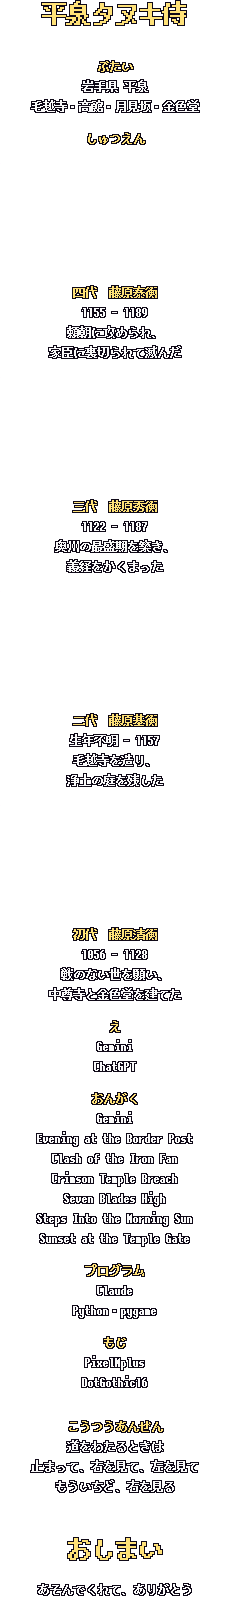
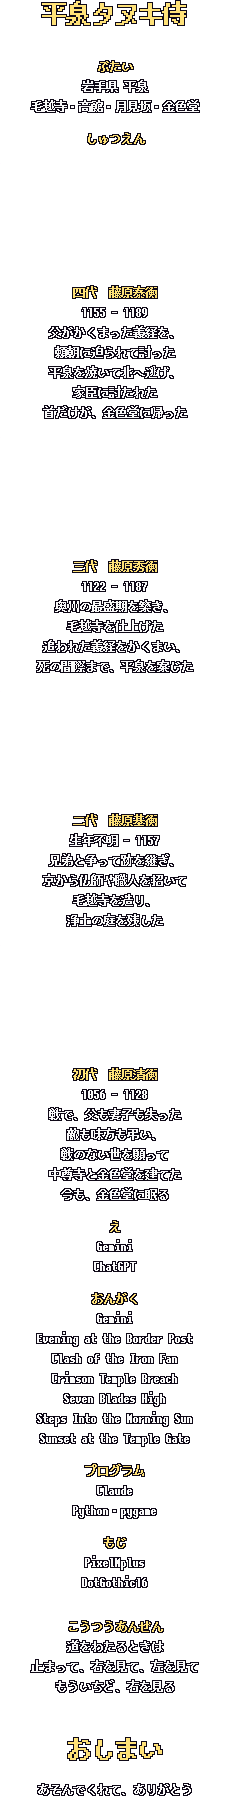
藤原四代の説明を広げる（エンドロールの各人を4〜5行に。EXTRA に JINBUTSU を足し、1人1枚の説明）。泰衡の二つ名を「首無武者」に

diff --git a/main.py b/main.py
@@ -80,10 +80,10 @@ class Game:
         self.start_t = 0         # 決定してから、始まるまでの残りフレーム
         self.menu_on = False     # スタート画面で、メニューを開いている
         self.menu_i = 0          # 選んでいる項目
-        self.menu_page = "main"  # メニューの画面（main = STORY・OPTION・EXTRA・HOW TO PLAY / option = 難しさ・音量 / extra = 名所・曲 / meisho = 名所 / disco = 曲の一覧）
+        self.menu_page = "main"  # メニューの画面（main = STORY・OPTION・EXTRA・HOW TO PLAY / option = 難しさ・音量 / extra = 名所・人物・曲 / meisho = 名所 / jinbutsu = 人物 / disco = 曲の一覧）
         self.disco_song = None   # ディスコグラフィで、いま鳴らしている曲のファイル名
         self.howto = False       # 操作説明を出している
-        self.meisho = None       # 名所の説明を出している面の番号（0〜。出していなければ None）
+        self.meisho = None       # 出している、名所・人物の説明の絵（出していなければ None）
         self._fade_cache = {}    # 崖の縁の、中景の入れ替えに使う、濃さの帯（幅ごとに作る）
         self._roll_fade = None   # エンドロールの、左の枠の右の端を暗くぼかす帯
         self.story = False       # いま、始まりの語りを流している
@@ -497,7 +497,7 @@ class Game:
         ud = ("down" in held) - ("up" in held)
         step_lr, step_ud = (lr if lr != self._lr else 0), (ud if ud != self._ud else 0)   # 押した瞬間だけ
         self._lr, self._ud = lr, ud
-        if self.howto or self.meisho is not None:      # 操作説明・名所の説明: 決定で、メニューに戻る
+        if self.howto or self.meisho is not None:      # 操作説明・名所や人物の説明: 決定で、メニューに戻る
             if decide:
                 self.howto, self.meisho = False, None
                 self.sfx.append(C.SFX["decide"])
@@ -534,11 +534,12 @@ class Game:
             if decide and row == "option":
                 self.menu_page, self.menu_i = "option", 0
                 self.sfx.append(C.SFX["decide"])
-            elif decide and row in ("extra", "disco", "meisho"):
+            elif decide and row in ("extra", "disco", "meisho", "jinbutsu"):
                 self.menu_page, self.menu_i = row, 0
                 self.sfx.append(C.SFX["decide"])
-            elif decide and self.menu_page == "meisho" and row != "back" and int(row[1:]) < len(self.a.meisho):    # 名所を選んで決定: 説明を出す
-                self.meisho = int(row[1:])
+            elif (decide and self.menu_page in ("meisho", "jinbutsu") and row != "back"
+                  and int(row[1:]) < len(self.a.meisho if self.menu_page == "meisho" else self.a.jinbutsu)):    # 名所・人物を選んで決定: 説明を出す
+                self.meisho = (self.a.meisho if self.menu_page == "meisho" else self.a.jinbutsu)[int(row[1:])]
                 self.sfx.append(C.SFX["decide"])
                 return
             elif decide and self.menu_page == "disco" and row != "back":     # 曲を選んで決定: その曲を鳴らす（もう一度で、止める）
@@ -546,7 +547,7 @@ class Game:
                 self.disco_song = None if self.disco_song == song else song
             elif decide and row == "back":
                 # 戻る先: 名所・曲の一覧は EXTRA へ、それ以外は最初のメニューへ（来た項目を選んだまま）
-                came, page = self.menu_page, "extra" if self.menu_page in ("disco", "meisho") else "main"
+                came, page = self.menu_page, "extra" if self.menu_page in ("disco", "meisho", "jinbutsu") else "main"
                 self.menu_page, self.menu_i, self.disco_song = page, C.MENU["pages"][page].index(came), None
                 self.sfx.append(C.SFX["decide"])
             elif decide and row == "howto" and self.a.howto:
@@ -1873,7 +1874,7 @@ class Game:
             img = self.a.howto
             screen.blit(img, ((C.BASE_W - img.get_width()) // 2, (C.BASE_H - img.get_height()) // 2))
         elif self.meisho is not None:
-            img = self.a.meisho[self.meisho]
+            img = self.meisho
             screen.blit(img, ((C.BASE_W - img.get_width()) // 2, (C.BASE_H - img.get_height()) // 2))
         elif self.menu_on and font:
             self._draw_menu(screen, font)
@@ -1900,7 +1901,7 @@ class Game:
         rows = M["pages"][self.menu_page]
         gap = M["row"] if self.menu_page == "main" else M["row_option"]
         top = M["y"] - max(0, len(rows) - 4) * gap       # 行が多いページは、上へ伸ばす（画面の下に出ないように）
-        if self.menu_page in ("extra", "disco", "meisho"):
+        if self.menu_page in ("extra", "disco", "meisho", "jinbutsu"):
             head = "- %s -" % M["label"][self.menu_page]
             text(head, M["cx"] - font.size(head)[0] // 2, top - M["head"], (214, 168, 72))
         for n, row in enumerate(rows):

diff --git a/config.py b/config.py
@@ -202,7 +202,7 @@ BOSS = dict(w=36, h=76, hp=24, touch=1, speed=0.5, near=70, gravity=0.3,
             rage_walk_frames=50, rage_recover_frames=45,
             high_bottom=30, high_h=32, corner=70)   # 高い光波の下端と高さ（地面から。高さは、絵と同じ） / 壁ぎわとみなす距離
 # ボスの名前（藤原四代。1面は、四代の泰衡。設定は assets/ストーリー設定.md）。出てきたときに、
-# まず二つ名（「呪落武者」）が出て、少し遅れて、名前が出る。どちらも、上に小さく、ふりがなを付ける。
+# まず二つ名（「首無武者」）が出て、少し遅れて、名前が出る。どちらも、上に小さく、ふりがなを付ける。
 # 文字の絵は tools/make_boss_name.py で作る（名前を変えるときは、絵を作り直す）
 BOSS_TITLE = "enemies/boss_ochimusha_title.png"   # 二つ名（上に、ふりがな）
 BOSS_NAME = "enemies/boss_ochimusha_name.png"     # 名前（上に、ふりがな）
@@ -445,7 +445,7 @@ LEVEL = "normal"        # 最初に選ばれている難しさ
 LEVEL_LABEL = (150, 252)    # （前の、難しさの表示の場所。いまは、メニューの中に出す）
 # スタート画面のメニュー: 決定のキーで開く。上下で項目を選び、決定で進む。
 #   main:   STORY（始める）/ OPTION（設定の画面へ）/ EXTRA（本編と関係のない、おまけ）/ HOW TO PLAY
-#   extra:  MEISHO（名所の説明。assets/images/meisho_*.png。tools/make_meisho.py で作る）/ DISCOGRAPHY（曲）/ BACK（操作説明。assets/images/howto.png。tools/make_howto.py で作る）
+#   extra:  MEISHO（名所の説明。assets/images/meisho_*.png）/ JINBUTSU（藤原四代の説明。jinbutsu_*.png。どちらも tools/make_meisho.py で作る）/ DISCOGRAPHY（曲）/ BACK（操作説明。assets/images/howto.png。tools/make_howto.py で作る）
 #   option: LEVEL（難しさ。左右で変える）/ MUSIC・SOUND（音量。左右で変える）/ BACK（戻る）
 #   cx = 行の中心（題名と同じ。どの行も、中央ぞろえ。右の大きなタヌキ侍は、x=265 あたりから。行の幅は、200 まで）
 #   y = 1行目の上端 / row・row_option = 行の間隔 / head = 見出しを、1行目より、どれだけ上に出すか / gap = 項目名と値の間 / steps = 音量の段の数
@@ -455,10 +455,11 @@ DISCO = (("bgm_story.ogg", "Evening at the Border Post"), ("bgm_map.ogg", "Steps
          ("bgm_ending.ogg", "Sunset at the Temple Gate"))
 MENU = dict(cx=150, y=196, row=18, row_option=15, head=18, gap=10, steps=5,
             pages=dict(main=("story", "option", "extra", "howto"), option=("level", "music", "sound", "back"),
-                       extra=("meisho", "disco", "back"),
+                       extra=("meisho", "jinbutsu", "disco", "back"),
                        meisho=("m0", "m1", "m2", "m3", "back"),
+                       jinbutsu=("p0", "p1", "p2", "p3", "back"),
                        disco=tuple("t%d" % i for i in range(len(DISCO))) + ("back",)),
-            label=dict(story="STORY", option="OPTION", extra="EXTRA", meisho="MEISHO", m0="MOTSUJI", m1="TAKADACHI", m2="TSUKIMIZAKA", m3="KONJIKIDO", disco="DISCOGRAPHY", howto="HOW TO PLAY", level="LEVEL", music="MUSIC", sound="SOUND", back="BACK",
+            label=dict(story="STORY", option="OPTION", extra="EXTRA", meisho="MEISHO", m0="MOTSUJI", m1="TAKADACHI", m2="TSUKIMIZAKA", m3="KONJIKIDO", jinbutsu="JINBUTSU", p0="YASUHIRA", p1="HIDEHIRA", p2="MOTOHIRA", p3="KIYOHIRA", disco="DISCOGRAPHY", howto="HOW TO PLAY", level="LEVEL", music="MUSIC", sound="SOUND", back="BACK",
                        **{"t%d" % i: name for i, (_, name) in enumerate(DISCO)}))
 # 隠し部屋（stage.py の caves）: hits＝崩れるまでに斬る回数 / cool＝1回の振りで、何度も数えないための間 / wall＝入口の壁の厚み（刀が当たる所）
 #   crack＝ひびの色（細く。斬るたびに濃くなる）/ shine＝ひびの下に1ドットずらして引く、明るい縁（彫ったように見せる）/ lines＝ひびの線（x は壁の左端から、y は高さに対する割合）/ room・edge＝壊したあとの部屋の色と縁

diff --git a/tools/make_meisho.py b/tools/make_meisho.py
@@ -39,6 +39,39 @@ PLACES = (
 )
 
 
+# 人物（遊ぶ順。泰衡→秀衡→基衡→清衡）: (名前, 読み, 説明の行, ゲームでは)。出力は jinbutsu_1.png 〜 jinbutsu_4.png
+PEOPLE = (
+    ("藤原泰衡", "ふじわらのやすひら", (
+        "四代。1155-1189。秀衡の子。",
+        "頼朝に迫られ、父がかくまった義経を高館に攻めた。",
+        "それでも頼朝の大軍に攻められ、平泉を焼いて北へ逃げた。",
+        "逃げる途中、家臣に討たれ、首は頼朝のもとへ送られた。",
+        "その首は、のちに金色堂に納められた。",
+    ), "一の面のボス。首を失った「首無武者」。"),
+    ("藤原秀衡", "ふじわらのひでひら", (
+        "三代。1122-1187。基衡の子。",
+        "鎮守府将軍となり、奥州藤原氏の最盛期を築いた。",
+        "毛越寺を仕上げ、宇治の平等院をまねた無量光院を建てた。",
+        "頼朝に追われた源義経を、平泉にかくまった。",
+        "死の間際、義経を立てて国を守れと言い残した。",
+    ), "二の面のボス。薙刀の光波と、踏み込み突き。"),
+    ("藤原基衡", "ふじわらのもとひら", (
+        "二代。生年不明-1157。清衡の子。",
+        "父の死後、兄弟と争って、跡を継いだ。",
+        "京から仏師や職人を招き、毛越寺を造りはじめた。",
+        "極楽浄土を写した庭は、今も毛越寺に残る。",
+        "妻は、毛越寺のとなりに観自在王院を建てた。",
+    ), "三の面のボス。扇で風を起こす。"),
+    ("藤原清衡", "ふじわらのきよひら", (
+        "初代。1056-1128。",
+        "前九年・後三年の戦で、父も妻子も失った。",
+        "戦の世を終わらせ、平泉に中尊寺を建てた。",
+        "敵も味方も、戦で死んだすべての命を弔うと願った。",
+        "1124年に金色堂を建て、今もそこに眠る。",
+    ), "最後のボス。金色の光をまとい、浮かぶ。"),
+)
+
+
 def big(font, s, scale):
     """ドットのフォントを、整数倍に大きくした文字の型（にじまない）"""
     mask = Image.new("L", (12 * len(s), 14), 0)
@@ -64,10 +97,11 @@ def make(font, place, out):
     y = 18 + mask.height + 10
     d.line((LEFT, y, W - LEFT, y), fill=EDGE[:3] + (150,))
     y += 14
+    step = 22 if len(lines) <= 3 else 19      # 行が多い（人物）ときは、少し詰める
     for s in lines:
         assert font.getlength("・" + s) <= W - 2 * LEFT, s      # 1行に収まる
         d.text((LEFT, y), "・" + s, font=font, fill=WHITE)
-        y += 22
+        y += step
     y += 10
     d.text((LEFT, y), "ゲームでは", font=font, fill=GOLD)
     d.text((LEFT + 72, y), game, font=font, fill=WHITE)
@@ -81,6 +115,8 @@ def main(font_path):
     font = ImageFont.truetype(font_path, 12)
     for i, place in enumerate(PLACES, 1):
         make(font, place, os.path.join(ROOT, "assets", "images", "meisho_%d.png" % i))
+    for i, person in enumerate(PEOPLE, 1):
+        make(font, person, os.path.join(ROOT, "assets", "images", "jinbutsu_%d.png" % i))
 
 
 if __name__ == "__main__":

diff --git a/tools/make_credits.py b/tools/make_credits.py
@@ -27,26 +27,36 @@ LINES = (
     ("絵", ""),
     ("見出し", "四代  藤原泰衡"),
     ("", "1155 - 1189"),
-    ("", "頼朝に攻められ、"),
-    ("", "家臣に裏切られて滅んだ"),
+    ("", "父がかくまった義経を、"),
+    ("", "頼朝に迫られて討った"),
+    ("", "平泉を焼いて北へ逃げ、"),
+    ("", "家臣に討たれた"),
+    ("", "首だけが、金色堂に帰った"),
     None,
     ("絵", ""),
     ("見出し", "三代  藤原秀衡"),
     ("", "1122 - 1187"),
     ("", "奥州の最盛期を築き、"),
-    ("", "義経をかくまった"),
+    ("", "毛越寺を仕上げた"),
+    ("", "追われた義経をかくまい、"),
+    ("", "死の間際まで、平泉を案じた"),
     None,
     ("絵", ""),
     ("見出し", "二代  藤原基衡"),
     ("", "生年不明 - 1157"),
+    ("", "兄弟と争って跡を継ぎ、"),
+    ("", "京から仏師や職人を招いて"),
     ("", "毛越寺を造り、"),
     ("", "浄土の庭を残した"),
     None,
     ("絵", ""),
     ("見出し", "初代  藤原清衡"),
     ("", "1056 - 1128"),
-    ("", "戦のない世を願い、"),
+    ("", "戦で、父も妻子も失った"),
+    ("", "敵も味方も弔い、"),
+    ("", "戦のない世を願って"),
     ("", "中尊寺と金色堂を建てた"),
+    ("", "今も、金色堂に眠る"),
     None,
     ("見出し", "え"),
     ("", "Gemini"),

diff --git a/sprites.py b/sprites.py
@@ -178,6 +178,8 @@ class Assets:
         self.howto = _load("howto.png") if os.path.exists(os.path.join(IMG, "howto.png")) else None     # 操作説明（メニューから開く）
         # 名所の説明（メニューの MEISHO から開く。面の順。tools/make_meisho.py で作る）
         self.meisho = [_load(f"meisho_{n}.png") for n in range(1, 5) if os.path.exists(os.path.join(IMG, f"meisho_{n}.png"))]
+        # 人物の説明（メニューの JINBUTSU から開く。遊ぶ順: 泰衡・秀衡・基衡・清衡。同じ tools/make_meisho.py で作る）
+        self.jinbutsu = [_load(f"jinbutsu_{n}.png") for n in range(1, 5) if os.path.exists(os.path.join(IMG, f"jinbutsu_{n}.png"))]
         self.title_logo = _load("title_logo.png")       # 題名「平泉 タヌキ侍」（昔のゲームのロゴ風）
         self.title_prompt = _load("title_prompt.png")   # 「PRESS START」
         # スタート画面の絵（無ければ、1面の景色で代わりにする）

diff --git a/tools/make_boss_name.py b/tools/make_boss_name.py
@@ -1,6 +1,6 @@
 """ボスが出てくる場面の、二つ名と名前の絵を書き出す（ゲームにフォントを入れずに出すため）。
 
-使い方: python tools/make_boss_name.py フォント.ttf "呪落武者" "のろいおちむしゃ" "泰衡" "やすひら" 出力の頭
+使い方: python tools/make_boss_name.py フォント.ttf "首無武者" "くびなしむしゃ" "泰衡" "やすひら" 出力の頭
 出力: 出力の頭_title.png（二つ名。朱色）、出力の頭_name.png（名前）。どちらも、上に小さく、ふりがなを付ける
   - フォントは、ドット風の DotGothic16（大きさ16）。二つ名は2倍、名前は3倍、ふりがなは1倍
   - アンチエイリアスなし。まわりに暗い縁取りを付ける

diff --git a/tools/make_boss1.py b/tools/make_boss1.py
@@ -1,4 +1,4 @@
-"""1面のボス（泰衡「呪落武者」）のシート2枚（白背景）から、使う姿を選んで、ゲーム用のコマにする。
+"""1面のボス（泰衡「首無武者」）のシート2枚（白背景）から、使う姿を選んで、ゲーム用のコマにする。
 
 使い方: python tools/make_boss1.py シート1.jpg シート2.jpg 出力フォルダ [--height 80] [--chunk 1] [--colors 14] [--list]
   --list   見つけた姿の番号と位置だけ表示し、番号入りの確認画像（出力フォルダ/boss_list_1.png・_2.png）を書く

diff --git a/assets/ステージコンセプト.md b/assets/ステージコンセプト.md
@@ -23,7 +23,7 @@
 | 敵の量 | 少ない（13。飛ぶ敵が中心） | 中（26） | 多い（39） | 少なめ（27。ボスの間が主役） |
 | 新しく出るもの | 飛び石・池・反橋 | 崖・高低差（弓兵・立ち往生は、絵ができてから） | 落ち武者・狐火・烏（最初から出ている） | 光る足場・浮かぶボス |
 | 景色 | 夜明け前の朝霧（青・白緑） | 夏の昼（緑・青空・川） | 夕焼けから夜（紫・橙） | 堂の中（黒・金・朱） |
-| ボス | 泰衡「呪落武者」 | 基衡「怨庭公家」 | 秀衡「鬼角薙将」 | 清衡「金色坐仏」 |
+| ボス | 泰衡「首無武者」 | 基衡「怨庭公家」 | 秀衡「鬼角薙将」 | 清衡「金色坐仏」 |
 | 長さ | 5000 | 6000 | 7500 | 9000（いちばん長い） |
 | 絵の置き場 | stage2/ | stage3/ | （1面の絵） | stage4/ |
 
@@ -53,7 +53,7 @@
 - **地形**: 池（穴）×4、反橋（16ずつの階段）、庭の塔（高さ140）、礎石の足場。
 - **景色**: 夜明け前の朝霧。青、白緑。1面の夕焼けと、対にする。
 - **平泉らしさ**: 面の名前（第一面 毛越寺 浄土の庭）／石碑「毛越寺」／礎石の足場／常行堂・中島・反橋の背景／池。
-- **ボス**: 四代・泰衡「呪落武者」（遊ぶ順で1人目）。細くて前かがみの落ち武者。歩いて斬る、光波（低・高）、跳びかかり。体力24。
+- **ボス**: 四代・泰衡「首無武者」（遊ぶ順で1人目）。細くて前かがみの落ち武者。歩いて斬る、光波（低・高）、跳びかかり。体力24。
   （基衡「怨庭公家」は、2面の高館のボス。顔のない、装束だけの亡霊（暗い空洞に、水色の目）。扇の風で押し戻す（ダメージなし）、扇を投げる（戻ってくる）、花びらの雨（体力が半分から。落ちる前に、地面に目印）。体力28。実装済み（絵は assets/concept/source/boss2_*.jpg → tools/make_boss2.py）。）
 - **曲**: 未定。静かで、少し神秘的な和風（朝霧の庭園）。
 - **やり残し**: ボス戦の遊んでの調整／ボスの名前の文字／語りの立ち絵／曲／遣水（小川）の場面／ボス戦の場所に池を置くか。

diff --git a/assets/必要な絵の一覧.md b/assets/必要な絵の一覧.md
@@ -157,7 +157,7 @@
 大きな形（兜・肩・刀・背中の矢）が、輪郭だけで分かるように描く。秀衡は、細かく描きすぎて、ほかの絵と合わなかった。
 
 - ファイル名: `boss1_sheet.jpg`
-- 姿: [ストーリー設定.md](ストーリー設定.md) の「ボスの見た目」。細くて前かがみ。折れた兜、背中に矢が刺さった落ち武者。二つ名は「呪落武者」
+- 姿: [ストーリー設定.md](ストーリー設定.md) の「ボスの見た目」。細くて前かがみ。折れた兜、背中に矢が刺さった落ち武者。二つ名は「首無武者」
 - 動き（行ごと）:
   - 立ち 3コマ（にらむ。肩で息をする）
   - 歩く 4コマ
@@ -174,7 +174,7 @@
 - 指示文（[敵コンセプト.md](敵コンセプト.md) の「共通」のあとに、続けて貼る）:
 
 ```
-【ボス】藤原泰衡(やすひら)。二つ名は「呪落武者(のろいおちむしゃ)」。逃げ続けて討たれた、四代目の亡霊。
+【ボス】藤原泰衡(やすひら)。二つ名は「首無武者(くびなしむしゃ)」。逃げ続けて討たれた、四代目の亡霊。
 
 【見た目】
 - 細くて、前かがみ。添付の落ち武者より、ずっと大きい(立った高さは、落ち武者の約2倍)。

diff --git a/assets/ストーリー設定.md b/assets/ストーリー設定.md
@@ -58,7 +58,7 @@
 
 | 遊ぶ順 | 場所 | ボス | 二つ名 | 出てきたときのひとこと |
 |---|---|---|---|---|
-| 1 | 毛越寺 | 四代・泰衡（やすひら） | 呪落武者（のろいおちむしゃ） | 「逃げても、逃げても、追ってくる」 |
+| 1 | 毛越寺 | 四代・泰衡（やすひら） | 首無武者（くびなしむしゃ） | 「逃げても、逃げても、追ってくる」 |
 | 2 | 高館 | 三代・秀衡（ひでひら） | 鬼角薙将（きかくていしょう） | 「義経を、守れなんだ」 |
 | 3 | 月見坂 | 二代・基衡（もとひら） | 怨庭公家（えんていくげ） | 「わしの庭を、荒らすのは誰だ」 |
 | 4 | 金色堂 | 初代・清衡（きよひら） | 金色坐仏（こんじきざぶつ） | 「戦のない国を、作りたかった」 |
